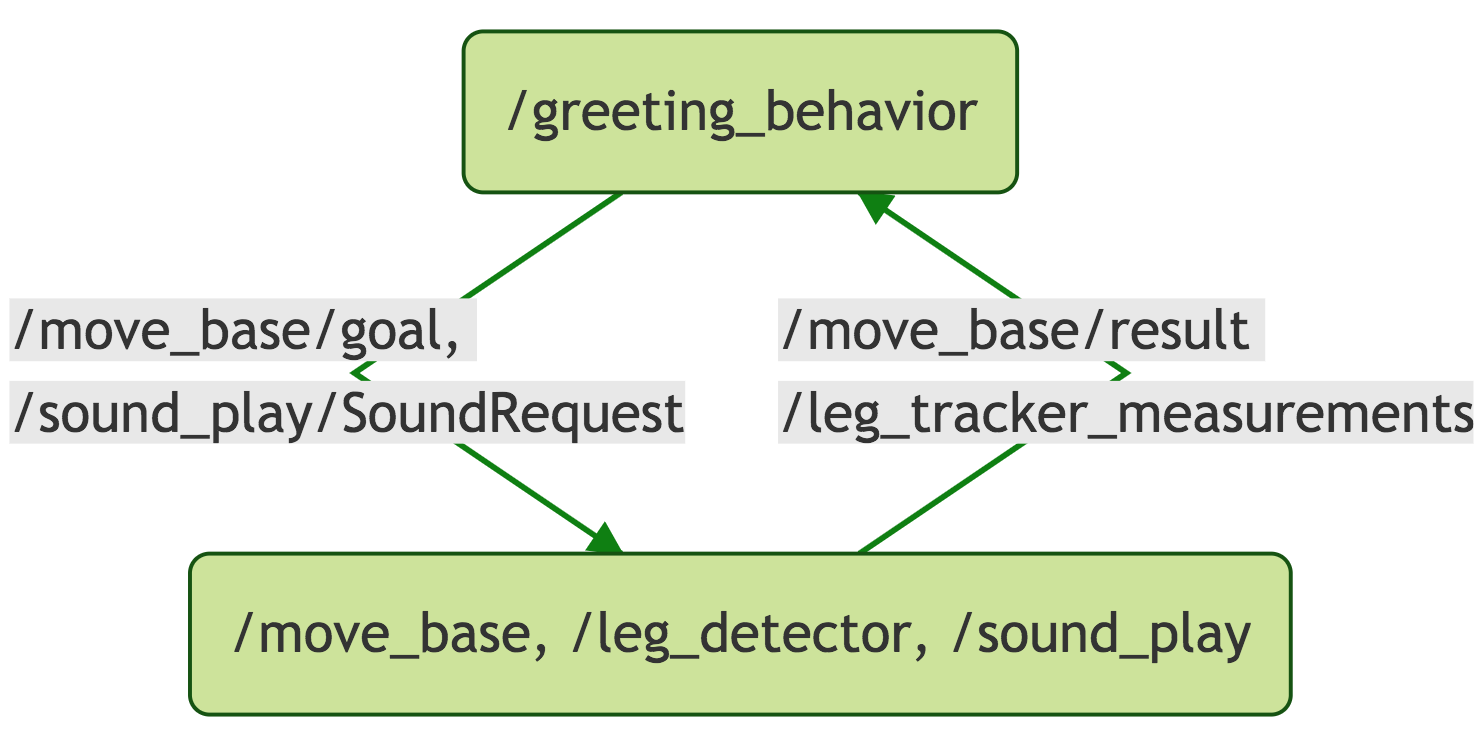
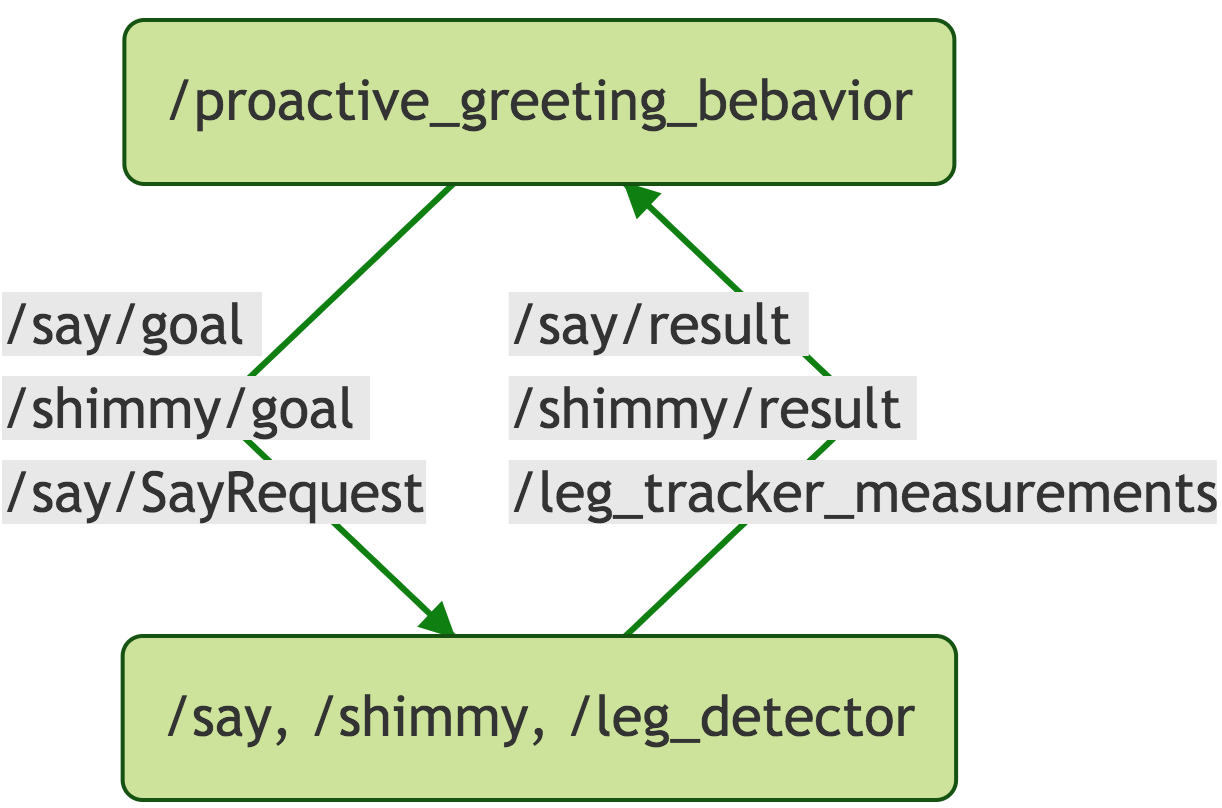
Update slides

Changed region(s): [[0.0, 0.0, 0.9951, 1.0], [0.311, 0.3597, 0.3421, 0.4196], [0.3421, 0.3297, 0.3732, 0.3597]]

diff --git a/slides/20190327_rosseattlemeetup/slides.md b/slides/20190327_rosseattlemeetup/slides.md
@@ -122,8 +122,8 @@ For example, ...
 
 ```mermaid
 graph TD
-A( /greeting_behavior ) -->| /move_base/goal, <br> /sound_play/SoundRequest| B
-B( /move_base, /leg_detector, /sound_play ) -->| /move_base/result <br> /leg_tracker_measurements | A
+A( /proactive_greeting ) -->| /say/goal <br> /shimmy/goal <br> /say/SayRequest| B
+B( /say, /shimmy, /leg_detector ) -->| /say/result <br> /shimmy/result <br> /leg_tracker_measurements | A
 
 {
   "theme": "forest"
@@ -214,19 +214,6 @@ _Demo the eye following app and mention that they can try it using online IDE; n
 
 ---
 
-## Potential Applications
-
-* Interactive manipulation <!-- .element: class="fragment" -->
-* Environment-aware navigation <!-- .element: class="fragment" -->
-* Social robot behaviors <!-- .element: class="fragment" -->
-
-
-Note:
-
-Reducing fractions to creating interactive application opens door to making a wide range of robot application more interactive.
-
----
-
 ## Related Work
 
 * [Functional Reactive Animation - ICFP97](http://conal.net/papers/icfp97/)
@@ -238,6 +225,10 @@ Reducing fractions to creating interactive application opens door to making a wi
 Note:
 
 Taking a reactive programming approach to implementing interactive application has a long history.
+One of the first work goes back to 1997.
+Yampa demonstrates the idea of separating side effect components from the main component.
+Playful is another framework that takes a reactive programming approach for creating interactive robot applications developed from Max Planck.
+...
 
 ---
 
@@ -250,15 +241,14 @@ Taking a reactive programming approach to implementing interactive application h
 Note:
 
 Encourage ROS users to try reactive programming.
-Encourage web developers to program robots / use ROS.
+Encourage web developers to program robots/use ROS. as I'd like to see web developers and roboticists working closer since both communities have a lot to learn from each other.
 
 ---
 
 ## Conclusion
 
 * Cycle.js + ROS as a reactive programming solution for robot applications
-* Use-case demonstrations
-* Try reactive programming in your next project!
+* The [functional reactive programming](http://conal.net/papers/icfp97/) and side-effect separation (i.e., [ports and adapters pattern](http://wiki.c2.com/?PortsAndAdaptersArchitecture)) can be applied without using Cycle.js
 
 ---
 
